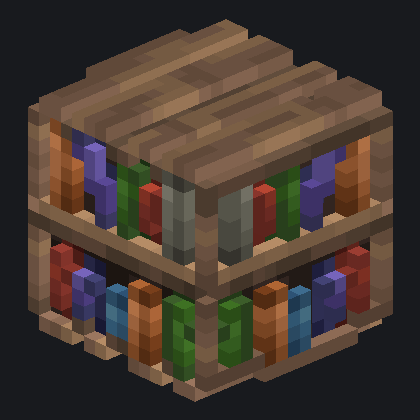
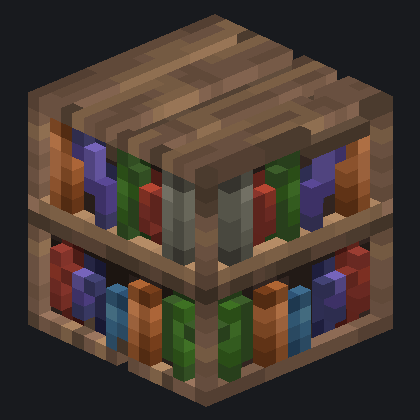
util: structure-constrained bake + wall/floor/log/cobble models
Depth rule gains physical-plausibility constraints (John's eyes:
'geometry doesn't seem realistically possible'): grain carves only
in connected dark features >=3 texels (no lone pits/studs — a knot
is dark, not deep) and never on the outer texel ring (no undercut
slivers where two faces chew one edge). New baked models bound in
the manifest: planks_oak (floor), planks_spruce (walls), log_oak
(corners), cobble (hearth pad) — 15 models, 18 node bindings.

diff --git a/util/claude_models.py b/util/claude_models.py
@@ -205,6 +205,37 @@ def bake_from_tiles(name, tiles, maxdepth=3, emissive_faces=(),
         lum = img @ np.array([0.2126, 0.7152, 0.0722])
         lo, hi = lum.min(), max(lum.max(), lum.min() + 1.0)
         med = float(np.median(lum))
+        # STEP rule + STRUCTURE constraints (John's eyes, 2026-08-13:
+        # "some of the geometry doesn't seem realistically possible").
+        # A dark texel is only CARVED if it belongs to a connected dark
+        # feature of >= 3 texels (kills lone pits and floating studs —
+        # a knot is dark, not deep), and depth-1 grain never carves the
+        # outer ring (kills undercut slivers where two faces chew the
+        # same cube edge). Deep carves (the near-black mouth band) are
+        # trusted as-is: they are designed features, not noise.
+        deep = ((lum - lo) / (hi - lo)) < 0.18
+        grain = lum < (med - 0.10 * (hi - lo))
+        # despeckle grain: 4-connected component size >= 3
+        keep = np.zeros((N, N), dtype=bool)
+        seen = np.zeros((N, N), dtype=bool)
+        for sv0 in range(N):
+            for su0 in range(N):
+                if not grain[sv0, su0] or seen[sv0, su0]:
+                    continue
+                comp = [(sv0, su0)]
+                seen[sv0, su0] = True
+                qi = 0
+                while qi < len(comp):
+                    cv, cu = comp[qi]; qi += 1
+                    for dv, du in ((1, 0), (-1, 0), (0, 1), (0, -1)):
+                        nv, nu = cv + dv, cu + du
+                        if 0 <= nv < N and 0 <= nu < N \
+                                and grain[nv, nu] and not seen[nv, nu]:
+                            seen[nv, nu] = True
+                            comp.append((nv, nu))
+                if len(comp) >= 3:
+                    for cv, cu in comp:
+                        keep[cv, cu] = True
         for vv in range(N):
             for u in range(N):
                 r, g, b = img[vv, u]
@@ -212,18 +243,12 @@ def bake_from_tiles(name, tiles, maxdepth=3, emissive_faces=(),
                            and r > 1.5 * b and g > 40.0)
                 if is_fire:
                     d = maxdepth  # fire sits at the back of its recess
+                elif deep[vv, u]:
+                    d = maxdepth
+                elif keep[vv, u] and 0 < vv < N - 1 and 0 < u < N - 1:
+                    d = 1
                 else:
-                    # STEP rule, not linear: a noisy stone texture must
-                    # stay a solid block with 1-voxel grain — only
-                    # near-black features (the mouth) carve deep. The
-                    # linear heightfield swiss-cheesed the furnace.
-                    t = (lum[vv, u] - lo) / (hi - lo)
-                    if t < 0.18:
-                        d = maxdepth
-                    elif lum[vv, u] < med - 0.10 * (hi - lo):
-                        d = 1
-                    else:
-                        d = 0
+                    d = 0
                 for dd in range(d):
                     x, y, z = _face_map(face, u, vv, dd)
                     v[z, y, x] = 0
@@ -393,6 +418,41 @@ def model_flowerpot():
     return "flowerpot_poppy", pal, v
 
 
+def _mcl(*parts):
+    return os.path.join(os.path.dirname(os.path.abspath(__file__)),
+                        "..", "games", "mineclonia", "mods", *parts)
+
+
+def model_planks_oak():
+    t = _mcl("ITEMS", "mcl_core", "textures", "default_wood.png")
+    return bake_from_tiles("planks_oak_baked",
+                           dict(side=t, top=t, bottom=t), maxdepth=1)
+
+
+def model_planks_spruce():
+    t = _mcl("ITEMS", "mcl_core", "textures", "mcl_core_planks_spruce.png")
+    return bake_from_tiles("planks_spruce_baked",
+                           dict(side=t, top=t, bottom=t), maxdepth=1)
+
+
+def model_log_oak():
+    return bake_from_tiles(
+        "log_oak_baked",
+        dict(side=_mcl("ITEMS", "mcl_core", "textures",
+                       "default_tree.png"),
+             top=_mcl("ITEMS", "mcl_core", "textures",
+                      "default_tree_top.png"),
+             bottom=_mcl("ITEMS", "mcl_core", "textures",
+                         "default_tree_top.png")),
+        maxdepth=1)
+
+
+def model_cobble():
+    t = _mcl("ITEMS", "mcl_core", "textures", "default_cobble.png")
+    return bake_from_tiles("cobble_baked",
+                           dict(side=t, top=t, bottom=t), maxdepth=1)
+
+
 def extrude_cutout(name, path, thick=2, emit_level=12):
     """Torch-class bake: a mostly-transparent 16x16 tile extruded into
     a `thick`-voxel standing model centered in the cell. Bright warm
@@ -520,6 +580,10 @@ MANIFEST = {
     "campfire_lit": ["mcl_campfires:campfire_lit"],
     "carpet_white": ["mcl_wool:white_carpet"],
     "flowerpot_poppy": ["mcl_flowerpots:flower_pot"],
+    "planks_oak_baked": ["mcl_trees:wood_oak"],
+    "planks_spruce_baked": ["mcl_trees:wood_spruce"],
+    "log_oak_baked": ["mcl_trees:tree_oak"],
+    "cobble_baked": ["mcl_core:cobble"],
 }
 
 
@@ -536,7 +600,8 @@ def main():
                model_torch_baked, model_bookshelf_baked,
                lambda: model_bed("foot"), lambda: model_bed("head"),
                model_lantern, model_campfire, model_carpet,
-               model_flowerpot):
+               model_flowerpot, model_planks_oak, model_planks_spruce,
+               model_log_oak, model_cobble):
         name, pal, v = fn()
         data = dict(name=name,
                     palette=[None] + [dict(rgb=list(p["rgb"]),
